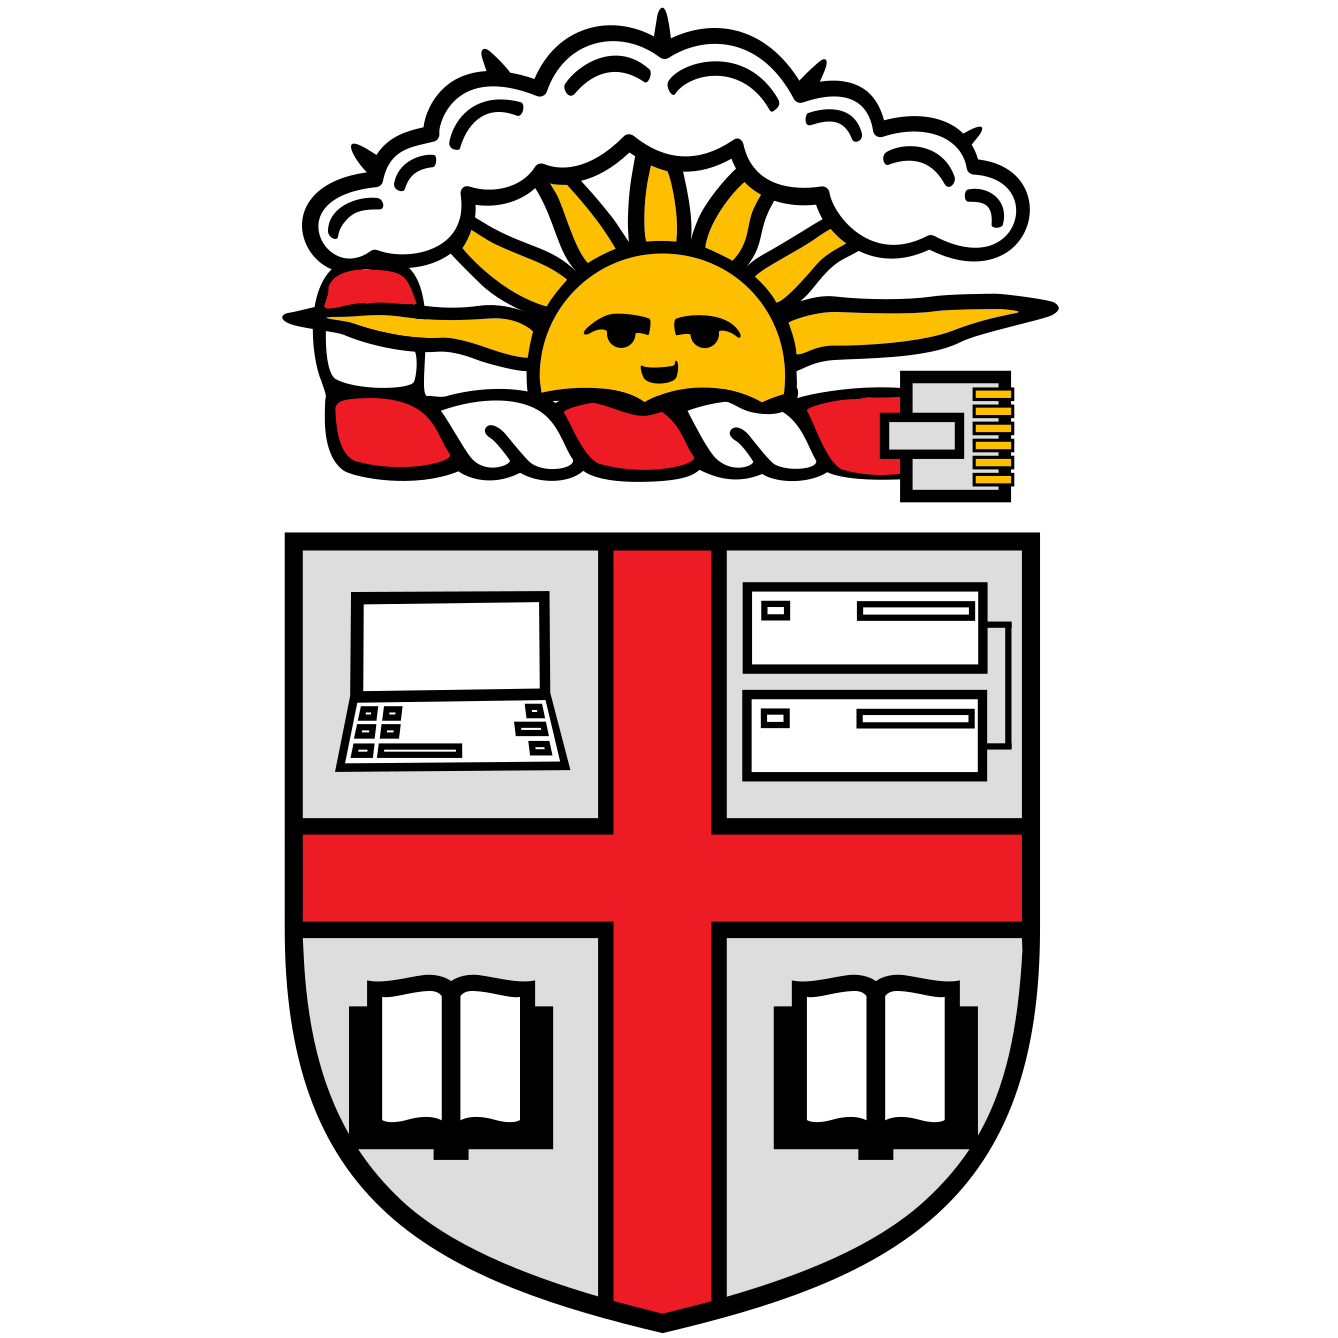
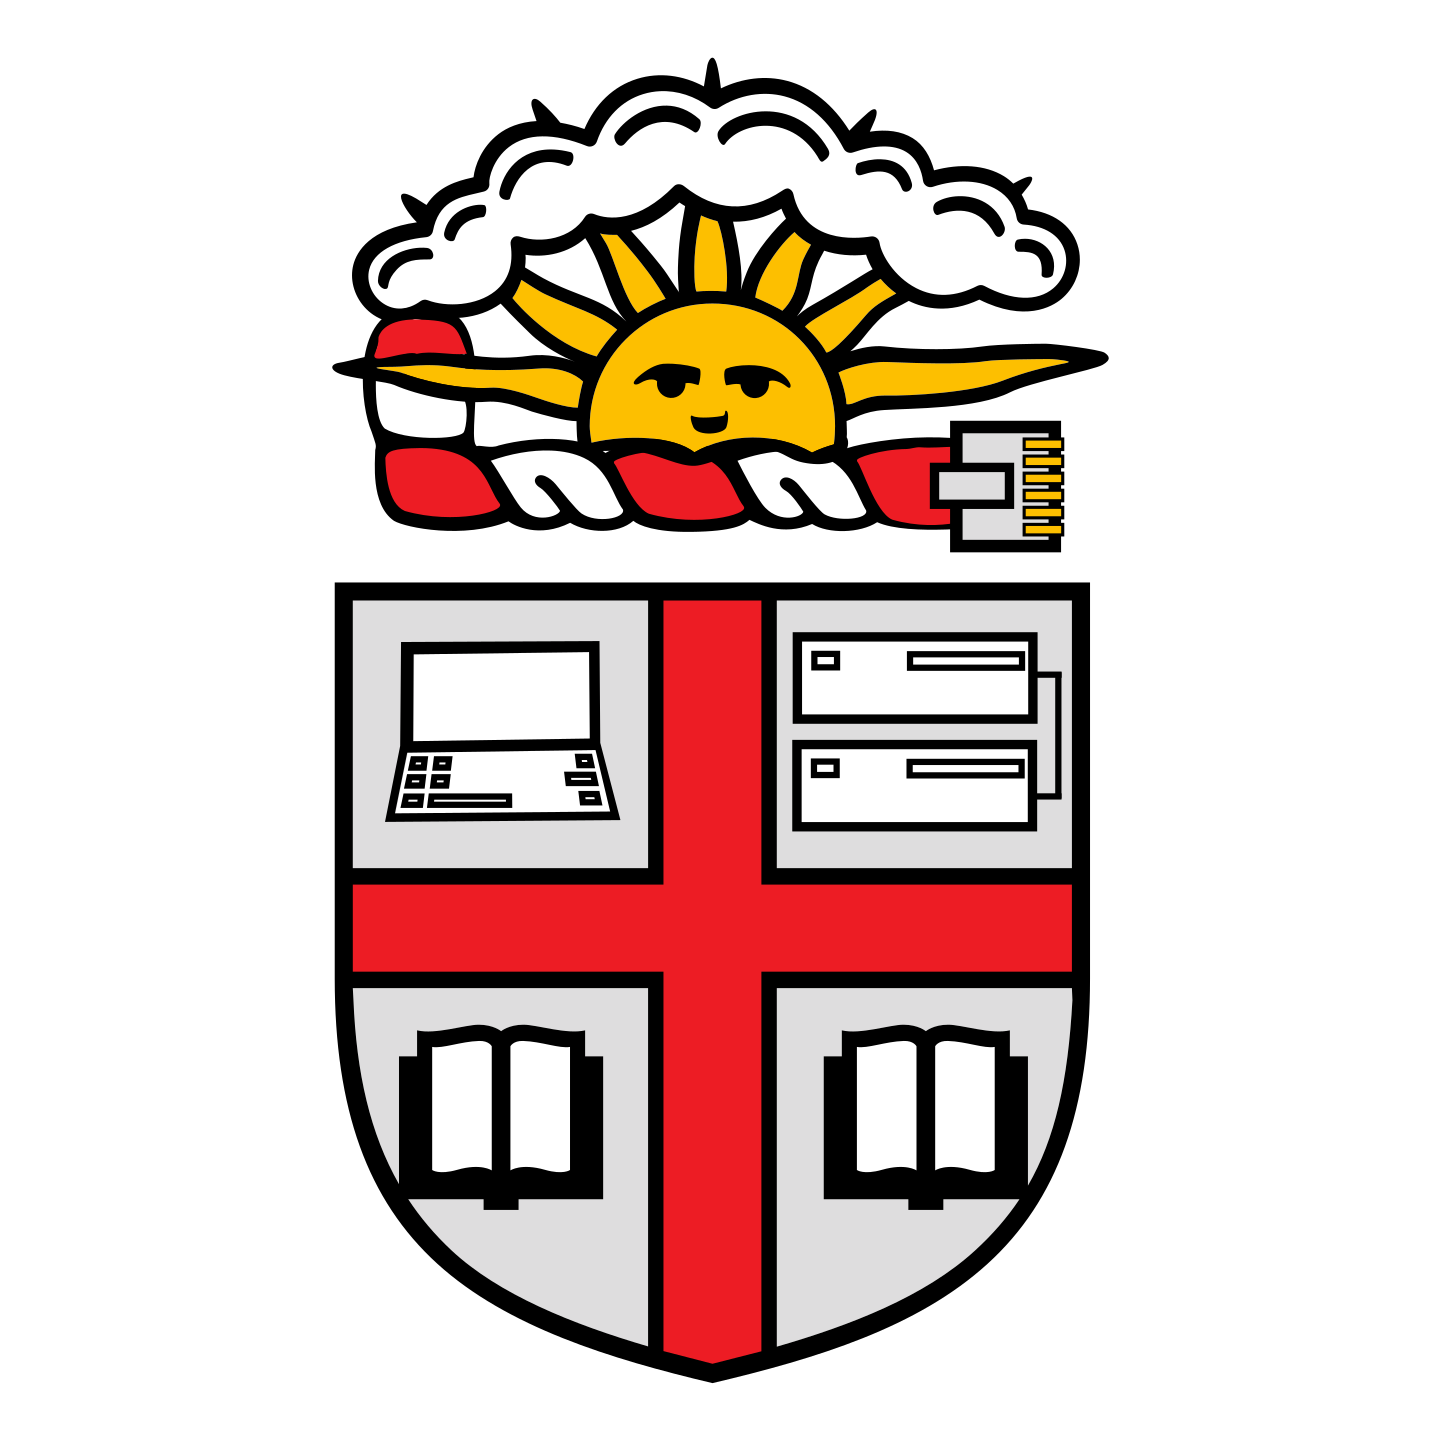
Update website content: modify pages, add new files, and reorganize project structure

Changed region(s): [[0.2145, 0.0, 0.7967, 1.0]]

diff --git a/index.html b/index.html
@@ -109,19 +109,12 @@
         <div class="container about-content">
           <div class="text-light text-center">
             <p class="lead mb-4 mt-2 about-text">
-              I'm passionate about building creative, impactful products with
-              artificial intelligence and leveraging cutting-edge technologies
-              to solve real-world problems. I'm especially interested in how AI
-              can be applied to create tools that empower people and improve
-              everyday experiences.
+              With such a fast-moving field as AI, I see incredible potential to make a meaningful difference in the world. 
+              It's an exciting time to be alive, and I'm passionate about utilizing this technology to empower people and improve lives. 
             </p>
             <p class="lead mb-0 about-text">
-              I enjoy exploring new technologies, diving into systems, and
-              tackling challenging problems. I also like playing tennis, reading
-              (currently
-              <em>Influence Is Your Superpower</em> by Zoe Chance), learning new
-              instruments (currently guitar), and drawing. Fun fact — I used to
-              compete in esports at a top professional level!
+              In my free time, I enjoy playing tennis, catching up on anime, and exploring new cafes.
+              I'm currently learning the guitar and reading <em>Influence Is Your Superpower</em> by Zoe Chance. In the past, I competed in esports at a top professional level!
             </p>
             <!-- Social Media Links -->
             <div class="mt-4 text-center">
@@ -282,7 +275,7 @@
             </div>
           </div>
 
-          <div class="col-sm-6">
+          <!-- <div class="col-sm-6">
             <div
               class="card m-4 text-center card-custom text-light bg-transparent border-light"
             >
@@ -337,7 +330,7 @@
               />
             </div>
           </div>
-        </div>
+        </div> -->
 
         <!-- Back to Top Arrow -->
         <div class="text-center mt-5">

diff --git a/style.css b/style.css
@@ -63,6 +63,11 @@ img {
   margin: 0 auto;
 }
 
+/* Move home section heading up slightly */
+#home .fade-in-image:first-child {
+  margin-top: -130px;
+}
+
 /* Turtle image in home section */
 .turtle-image {
   width: 200px !important;
@@ -96,6 +101,33 @@ img {
 /* Custom navbar background color */
 .navbar-custom {
   background-color: #4a6b54;
+}
+
+/* Back button styling - matches page badge/button style */
+.back-button {
+  position: absolute;
+  top: 0;
+  left: 15px; /* Align with container content padding (Bootstrap default) */
+  z-index: 10;
+  background: rgba(255, 255, 255, 0.15);
+  border: 1px solid rgba(255, 255, 255, 0.2);
+  border-radius: 8px;
+  padding: 10px 16px;
+  font-size: 1rem;
+  font-weight: 500;
+  text-decoration: none;
+  display: inline-flex;
+  align-items: center;
+  transition: all 0.3s ease;
+}
+
+.back-button:hover {
+  background: rgba(255, 255, 255, 0.25);
+  border-color: rgba(255, 255, 255, 0.4);
+  transform: translateY(-2px);
+  box-shadow: 0 4px 12px rgba(0, 0, 0, 0.2);
+  color: white;
+  text-decoration: none;
 }
 
 /* ============================================

diff --git a/projects/weenix.html b/projects/weenix.html
@@ -77,22 +77,12 @@
         position: relative;
       "
     >
-      <div class="container" style="max-width: 1000px; padding-top: 40px; position: relative;">
+      <div
+        class="container"
+        style="max-width: 1000px; padding-top: 40px; position: relative"
+      >
         <!-- Back Button -->
-        <a
-          href="../index.html#experience"
-          class="btn btn-link text-light position-absolute"
-          style="
-            top: 0;
-            left: 0;
-            font-size: 1.2rem;
-            text-decoration: none;
-            z-index: 10;
-            padding: 10px 15px;
-          "
-          onmouseover="this.style.opacity='0.8';"
-          onmouseout="this.style.opacity='1';"
-        >
+        <a href="../index.html#experience" class="text-light back-button">
           <i class="bi bi-arrow-left me-2"></i>Back
         </a>
         <!-- Header Section -->
@@ -672,4 +662,3 @@
     <script src="https://cdn.jsdelivr.net/npm/bootstrap@5.3.0/dist/js/bootstrap.bundle.min.js"></script>
   </body>
 </html>
-

diff --git a/projects/iptcp.html b/projects/iptcp.html
@@ -81,17 +81,7 @@
         <!-- Back Button -->
         <a
           href="../index.html#experience"
-          class="btn btn-link text-light position-absolute"
-          style="
-            top: 0;
-            left: 0;
-            font-size: 1.2rem;
-            text-decoration: none;
-            z-index: 10;
-            padding: 10px 15px;
-          "
-          onmouseover="this.style.opacity='0.8';"
-          onmouseout="this.style.opacity='1';"
+          class="text-light back-button"
         >
           <i class="bi bi-arrow-left me-2"></i>Back
         </a>

diff --git a/research/systems@brown.html b/research/systems@brown.html
@@ -81,17 +81,7 @@
         <!-- Back Button -->
         <a
           href="../index.html#experience"
-          class="btn btn-link text-light position-absolute"
-          style="
-            top: 0;
-            left: 0;
-            font-size: 1.2rem;
-            text-decoration: none;
-            z-index: 10;
-            padding: 10px 15px;
-          "
-          onmouseover="this.style.opacity='0.8';"
-          onmouseout="this.style.opacity='1';"
+          class="text-light back-button"
         >
           <i class="bi bi-arrow-left me-2"></i>Back
         </a>

diff --git a/wip/evolution.html b/wip/evolution.html
@@ -84,17 +84,7 @@
         <!-- Back Button -->
         <a
           href="../index.html#experience"
-          class="btn btn-link text-light position-absolute"
-          style="
-            top: 0;
-            left: 0;
-            font-size: 1.2rem;
-            text-decoration: none;
-            z-index: 10;
-            padding: 10px 15px;
-          "
-          onmouseover="this.style.opacity='0.8';"
-          onmouseout="this.style.opacity='1';"
+          class="text-light back-button"
         >
           <i class="bi bi-arrow-left me-2"></i>Back
         </a>

diff --git a/wip/search.html b/wip/search.html
@@ -84,17 +84,7 @@
         <!-- Back Button -->
         <a
           href="../index.html#experience"
-          class="btn btn-link text-light position-absolute"
-          style="
-            top: 0;
-            left: 0;
-            font-size: 1.2rem;
-            text-decoration: none;
-            z-index: 10;
-            padding: 10px 15px;
-          "
-          onmouseover="this.style.opacity='0.8';"
-          onmouseout="this.style.opacity='1';"
+          class="text-light back-button"
         >
           <i class="bi bi-arrow-left me-2"></i>Back
         </a>

diff --git a/work/revin.html b/work/revin.html
@@ -81,17 +81,7 @@
         <!-- Back Button -->
         <a
           href="../index.html#experience"
-          class="btn btn-link text-light position-absolute"
-          style="
-            top: 0;
-            left: 0;
-            font-size: 1.2rem;
-            text-decoration: none;
-            z-index: 10;
-            padding: 10px 15px;
-          "
-          onmouseover="this.style.opacity='0.8';"
-          onmouseout="this.style.opacity='1';"
+          class="text-light back-button"
         >
           <i class="bi bi-arrow-left me-2"></i>Back
         </a>

diff --git a/add_border.py b/add_border.py
@@ -1,0 +1,52 @@
+#!/usr/bin/env python3
+"""
+Script to add a border around an image and zoom it out
+"""
+
+from PIL import Image, ImageOps
+
+# Configuration
+INPUT_IMAGE = "images/systems@brown.png"
+OUTPUT_IMAGE = "images/systems@brown.png"
+BORDER_WIDTH = 50  # pixels of white space around the image
+BORDER_COLOR = "white"  # background color
+BORDER_LINE_WIDTH = 3  # width of the border line (set to 0 for no line)
+BORDER_LINE_COLOR = "black"  # color of the border line
+
+def add_border_and_zoom_out(input_path, output_path, padding, bg_color, line_width, line_color):
+    """
+    Add padding around an image and optionally add a border line
+
+    Args:
+        input_path: Path to input image
+        output_path: Path to save output image
+        padding: Pixels of padding to add around the image
+        bg_color: Background color for the padding
+        line_width: Width of border line (0 for no line)
+        line_color: Color of the border line
+    """
+    # Open the original image
+    img = Image.open(input_path)
+
+    # Add padding (zoomed out effect)
+    img_with_padding = ImageOps.expand(img, border=padding, fill=bg_color)
+
+    # Add border line if requested
+    if line_width > 0:
+        img_with_padding = ImageOps.expand(img_with_padding, border=line_width, fill=line_color)
+
+    # Save the result
+    img_with_padding.save(output_path)
+    print(f"✓ Processed image saved to: {output_path}")
+    print(f"  Original size: {img.size}")
+    print(f"  New size: {img_with_padding.size}")
+
+if __name__ == "__main__":
+    add_border_and_zoom_out(
+        INPUT_IMAGE,
+        OUTPUT_IMAGE,
+        BORDER_WIDTH,
+        BORDER_COLOR,
+        BORDER_LINE_WIDTH,
+        BORDER_LINE_COLOR
+    )
